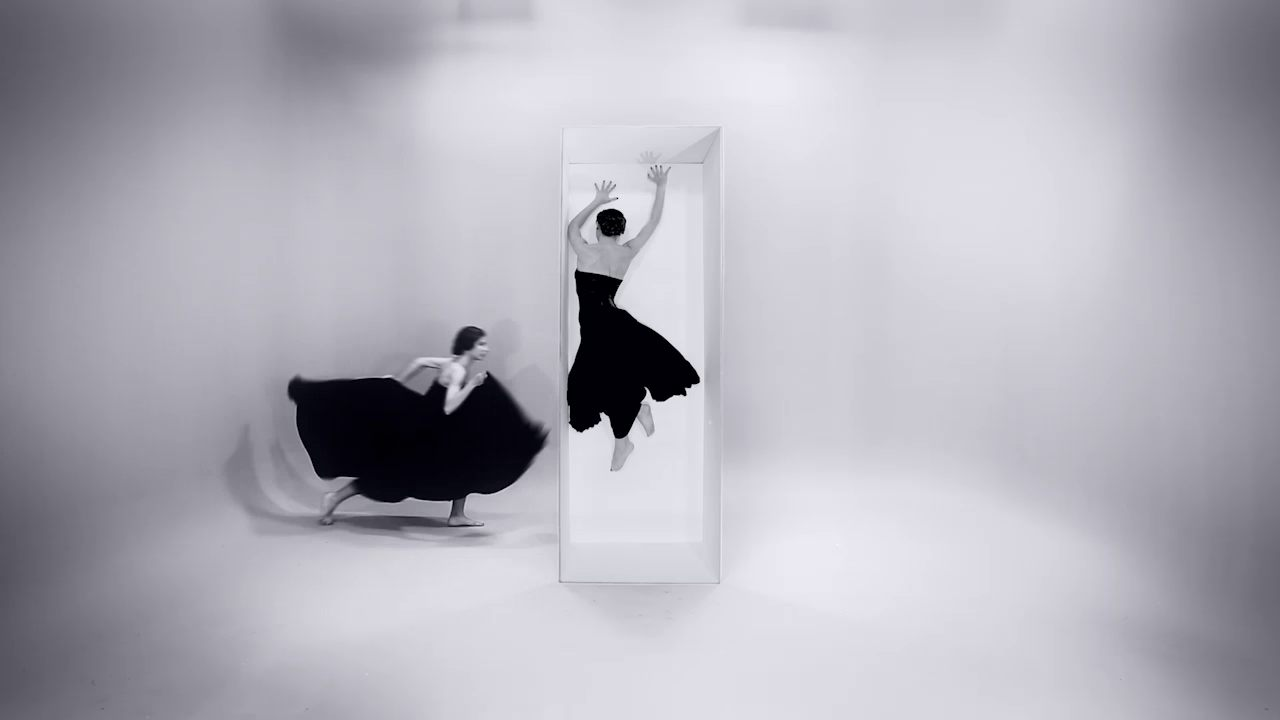
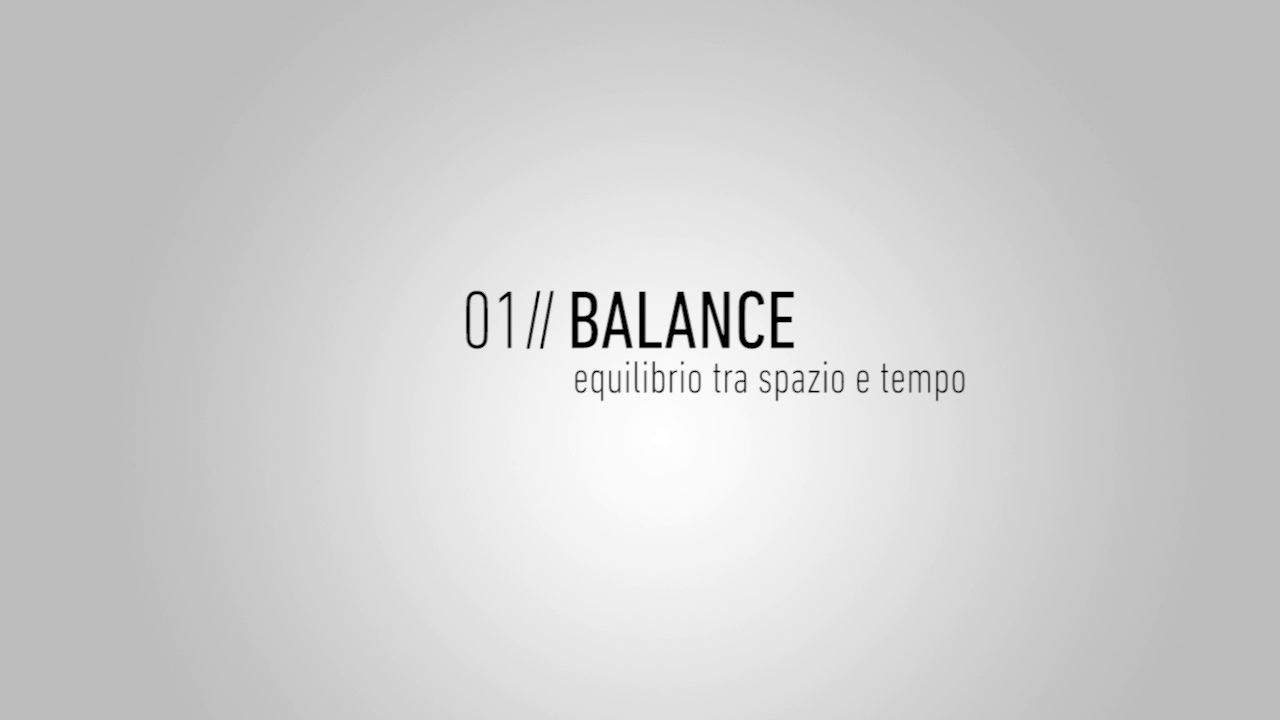
Add Balance gallery (8 photos), video, hero image, tagline Frames in the balance
- 8 compressed video stills: dancers in gravity-defying poses, b/w aesthetic
- YouTube video 7PR1bMTnWp0
- Hero image fixed from Wix to local balance-04.jpg
- Tagline: Frames in the balance between space and time

diff --git a/events/balance.html b/events/balance.html
@@ -8,7 +8,7 @@
   <link rel="canonical" href="https://cristiantaraborrelli.github.io/events/balance.html">
   <meta property="og:title" content="Balance | Cristian Taraborrelli Studio">
   <meta property="og:description" content="Balance — a live event concept by Cristian Taraborrelli exploring the theme of equilibrium through performance, scenic installation, and movement.">
-  <meta property="og:image" content="https://static.wixstatic.com/media/99645d_461c152c50bb460db0b6de951aa65a57f000.jpg">
+  <meta property="og:image" content="https://cristiantaraborrelli.github.io/images/balance-04.jpg">
   <link rel="stylesheet" href="../css/style.css">
 </head>
 <body>
@@ -88,7 +88,7 @@
 <main class="page">
   <a href="../index.html" class="back-link" data-i18n="back-link" data-en="All works" data-it="Tutti i lavori" data-fr="Toutes les &oelig;uvres">All works</a>
   <section class="proj-hero">
-    <img src="https://static.wixstatic.com/media/99645d_461c152c50bb460db0b6de951aa65a57f000.jpg" alt="Balance — event by Cristian Taraborrelli Studio">
+    <img src="../images/balance-04.jpg" alt="Balance &mdash; Frames in the balance between space and time &mdash; Cristian Taraborrelli">
     <div class="proj-hero-overlay"></div>
     <div class="proj-hero-content">
       <p class="proj-hero-cat" data-i18n="hero-cat" data-en="Events &middot; Roma &middot; 2014" data-it="Eventi &middot; Roma &middot; 2014" data-fr="&Eacute;v&eacute;nements &middot; Rome &middot; 2014">Events &middot; Roma &middot; 2014</p>
@@ -101,15 +101,15 @@
       <div class="proj-intro-text">
         <div data-lang-block="en">
           <p><strong>01_BALANCE</strong> by art director Cristian Taraborrelli is a <strong>FORMAT</strong> designed for events that combines dance and choreography with the dynamics of the image. The great potential of this format lies in its flexibility and applicability across diverse contexts: conventions, openings, media events, gala dinners, road shows.</p>
-          <p>01_BALANCE is part of the <strong>Balance&reg;</strong> system: a multifaceted project, a new and original interpretation of the scenic apparatus in which bodies and objects lose their gravity. &ldquo;Equilibrium between space and time.&rdquo;</p>
+          <p>01_BALANCE is part of the <strong>Balance&reg;</strong> system: a multifaceted project, a new and original interpretation of the scenic apparatus in which bodies and objects lose their gravity. <em>&ldquo;Frames in the balance between space and time.&rdquo;</em></p>
         </div>
         <div data-lang-block="it">
           <p><strong>01_BALANCE</strong> dell&rsquo;art director Cristian Taraborrelli, &egrave; un <strong>FORMAT</strong> pensato per gli eventi che coniuga la danza e la coreografia con la dinamica dell&rsquo;immagine. Le grandi potenzialit&agrave; di questo FORMAT sono nella flessibilit&agrave; e applicabilit&agrave; in ambiti diversi: convention, opening, media events, gala dinner, road show.</p>
-          <p>01_BALANCE &egrave; parte del sistema <strong>Balance&reg;</strong>: un progetto poliedrico, una nuova, originale interpretazione dell&rsquo;impianto scenico nella quale i corpi e gli oggetti perdono di gravit&agrave;. &laquo;Equilibrio tra spazio e tempo.&raquo;</p>
+          <p>01_BALANCE &egrave; parte del sistema <strong>Balance&reg;</strong>: un progetto poliedrico, una nuova, originale interpretazione dell&rsquo;impianto scenico nella quale i corpi e gli oggetti perdono di gravit&agrave;. <em>&laquo;Frames in the balance between space and time.&raquo;</em></p>
         </div>
         <div data-lang-block="fr">
           <p><strong>01_BALANCE</strong> du directeur artistique Cristian Taraborrelli est un <strong>FORMAT</strong> con&ccedil;u pour les &eacute;v&eacute;nements qui conjugue danse et chor&eacute;graphie avec la dynamique de l&rsquo;image. Le grand potentiel de ce format r&eacute;side dans sa flexibilit&eacute; et son applicabilit&eacute; dans des contextes divers : conventions, inaugurations, media events, d&icirc;ners de gala, road shows.</p>
-          <p>01_BALANCE fait partie du syst&egrave;me <strong>Balance&reg;</strong> : un projet multiforme, une nouvelle interpr&eacute;tation originale de l&rsquo;appareil sc&eacute;nique dans laquelle les corps et les objets perdent leur gravit&eacute;. &laquo;&Eacute;quilibre entre espace et temps.&raquo;</p>
+          <p>01_BALANCE fait partie du syst&egrave;me <strong>Balance&reg;</strong> : un projet multiforme, une nouvelle interpr&eacute;tation originale de l&rsquo;appareil sc&eacute;nique dans laquelle les corps et les objets perdent leur gravit&eacute;. <em>&laquo;Frames in the balance between space and time.&raquo;</em></p>
         </div>
       </div>
       <div class="proj-meta">
@@ -120,6 +120,31 @@
         <div><p class="proj-meta-label" data-i18n="meta-format" data-en="Format" data-it="Formato" data-fr="Format">Formato</p><p class="proj-meta-val" data-i18n="meta-format-val" data-en="Dance + Choreography + Image" data-it="Danza + Coreografia + Immagine" data-fr="Danse + Chor&eacute;graphie + Image">Danza + Coreografia + Immagine</p></div>
       </div>
     </div>
+    <!-- Gallery -->
+    <div class="proj-sec reveal">
+      <p class="s-label" data-i18n="s-gallery" data-en="Gallery" data-it="Galleria" data-fr="Galerie">Galleria</p>
+      <div class="gallery-grid">
+        <div class="gallery-item"><img src="../images/balance-01.jpg" alt="01_BALANCE &mdash; title card" loading="lazy"></div>
+        <div class="gallery-item"><img src="../images/balance-02.jpg" alt="Balance &mdash; close-up eyes b/w" loading="lazy"></div>
+        <div class="gallery-item"><img src="../images/balance-03.jpg" alt="Balance &mdash; dancer spiral pattern from above" loading="lazy"></div>
+        <div class="gallery-item"><img src="../images/balance-04.jpg" alt="Balance &mdash; dancer floating black spheres" loading="lazy"></div>
+        <div class="gallery-item"><img src="../images/balance-05.jpg" alt="Balance &mdash; portrait dramatic lighting" loading="lazy"></div>
+        <div class="gallery-item"><img src="../images/balance-06.jpg" alt="Balance &mdash; two dancers gravity box" loading="lazy"></div>
+        <div class="gallery-item"><img src="../images/balance-07.jpg" alt="Balance &mdash; dancer suspended in box" loading="lazy"></div>
+        <div class="gallery-item"><img src="../images/balance-08.jpg" alt="Balance &mdash; dancer grid perspective" loading="lazy"></div>
+      </div>
+    </div>
+
+    <!-- Video -->
+    <div class="proj-sec reveal">
+      <p class="s-label" data-i18n="s-video" data-en="Video" data-it="Video" data-fr="Vid&eacute;o">Video</p>
+      <div style="max-width:680px;">
+        <div style="position:relative;padding-bottom:56.25%;height:0;overflow:hidden;border-radius:var(--radius);">
+          <iframe src="https://www.youtube.com/embed/7PR1bMTnWp0" title="01_BALANCE &mdash; Frames in the balance between space and time" style="position:absolute;top:0;left:0;width:100%;height:100%;border:0;" allow="accelerometer;autoplay;clipboard-write;encrypted-media;gyroscope;picture-in-picture" allowfullscreen loading="lazy"></iframe>
+        </div>
+      </div>
+    </div>
+
     <div class="proj-sec reveal">
       <p class="s-label" data-i18n="s-tags" data-en="Tags" data-it="Tag" data-fr="Tags">Tags</p>
       <div class="tags-row"><span class="tag">Balance</span><span class="tag">01_BALANCE</span><span class="tag">Format</span><span class="tag">Danza</span><span class="tag">Coreografia</span><span class="tag">Video Mapping</span><span class="tag">Live Event</span><span class="tag">Roma</span><span class="tag">Art Direction</span><span class="tag">Convention</span><span class="tag">Performance</span><span class="tag">Gravit&agrave;</span></div>